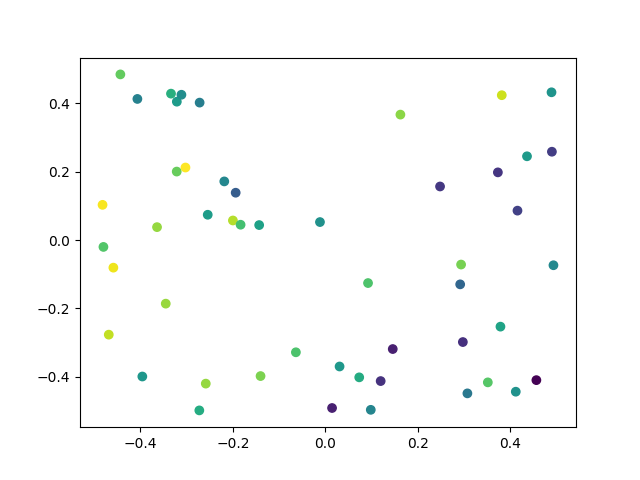
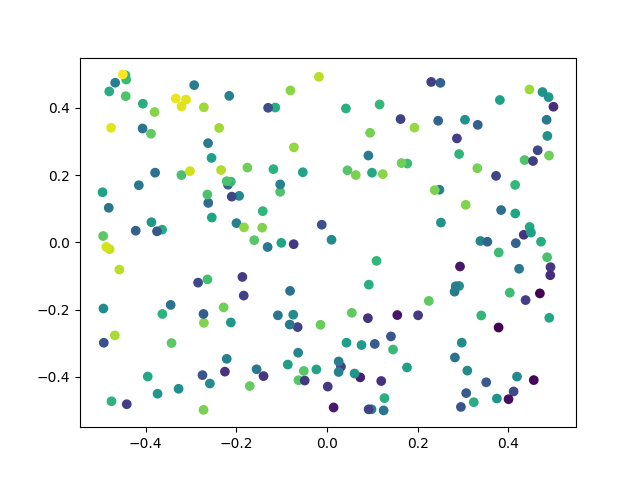
fixed dataset test

diff --git a/dataset_linear.py b/dataset_linear.py
@@ -22,6 +22,22 @@ class LinearRegressionDataset:
         return np.dot(w, x) + np.random.uniform(low=-noise/2, high=noise/2)
 
 
+def generate_dataset_process(directory, d, epsilon, n_train, n_test, seed):
+    np.random.seed(seed)
+    gm_train = LinearRegressionDataset(n=n_train, d=d, epsilon=epsilon)
+    np.save(f"{directory}/train_X.npy", gm_train.X)
+    np.save(f"{directory}/train_y.npy", gm_train.y)
+    gm_test = LinearRegressionDataset(n=n_test, d=d, epsilon=epsilon)
+    np.save(f"{directory}/test_X.npy", gm_test.X)
+    np.save(f"{directory}/test_y.npy", gm_test.y)
+    json.dump({'d': d, 'epsilon': epsilon, 'n_train': n_train, 'n_test': n_test, 'seed': seed}, open(f"{directory}/specs.json", "w"))
+    plt.scatter(gm_train.X[:,0], gm_train.X[:,1], c=gm_train.y)
+    plt.savefig(f"{directory}/training_set.png")
+    plt.close('all')
+    plt.scatter(gm_test.X[:,0], gm_test.X[:,1], c=gm_test.y)
+    plt.savefig(f"{directory}/testing_set.png")
+    plt.close('all')
+
 @click.group()
 def main():
     pass
@@ -35,20 +51,19 @@ def main():
 @click.option('--n-test', type=int, required=True)
 @click.option('--seed', type=int, required=True)
 def generate_dataset(directory, d, epsilon, n_train, n_test, seed):
-    np.random.seed(seed)
-    gm_train = LinearRegressionDataset(n=n_train, d=d, epsilon=epsilon)
-    np.save(f"{directory}/train_X.npy", gm_train.X)
-    np.save(f"{directory}/train_y.npy", gm_train.y)
-    gm_test = LinearRegressionDataset(n=n_train, d=d, epsilon=epsilon)
-    np.save(f"{directory}/test_X.npy", gm_test.X)
-    np.save(f"{directory}/test_y.npy", gm_test.y)
-    json.dump({'d': d, 'epsilon': epsilon, 'n_train': n_train, 'n_test': n_test, 'seed': seed}, open(f"{directory}/specs.json", "w"))
-    plt.scatter(gm_train.X[:,0], gm_train.X[:,1], c=gm_train.y)
-    plt.savefig(f"{directory}/training_set.png")
-    plt.close('all')
-    plt.scatter(gm_test.X[:,0], gm_test.X[:,1], c=gm_test.y)
-    plt.savefig(f"{directory}/testing_set.png")
-    plt.close('all')
+    generate_dataset_process(directory, d, epsilon, n_train, n_test, seed)
+
+
+@main.command()
+@click.option('--directory', type=click.Path(), required=True)
+def regenerate_dataset(directory):
+    specs = json.load(open(f"{directory}/specs.json"))
+    d = int(specs['d'])
+    n_train = int(specs['n_train'])
+    n_test = int(specs['n_test'])
+    seed = int(specs['seed'])
+    epsilon = float(specs['epsilon'])
+    generate_dataset_process(directory, d, epsilon, n_train, n_test, seed)
 
 
 if __name__ == '__main__':
